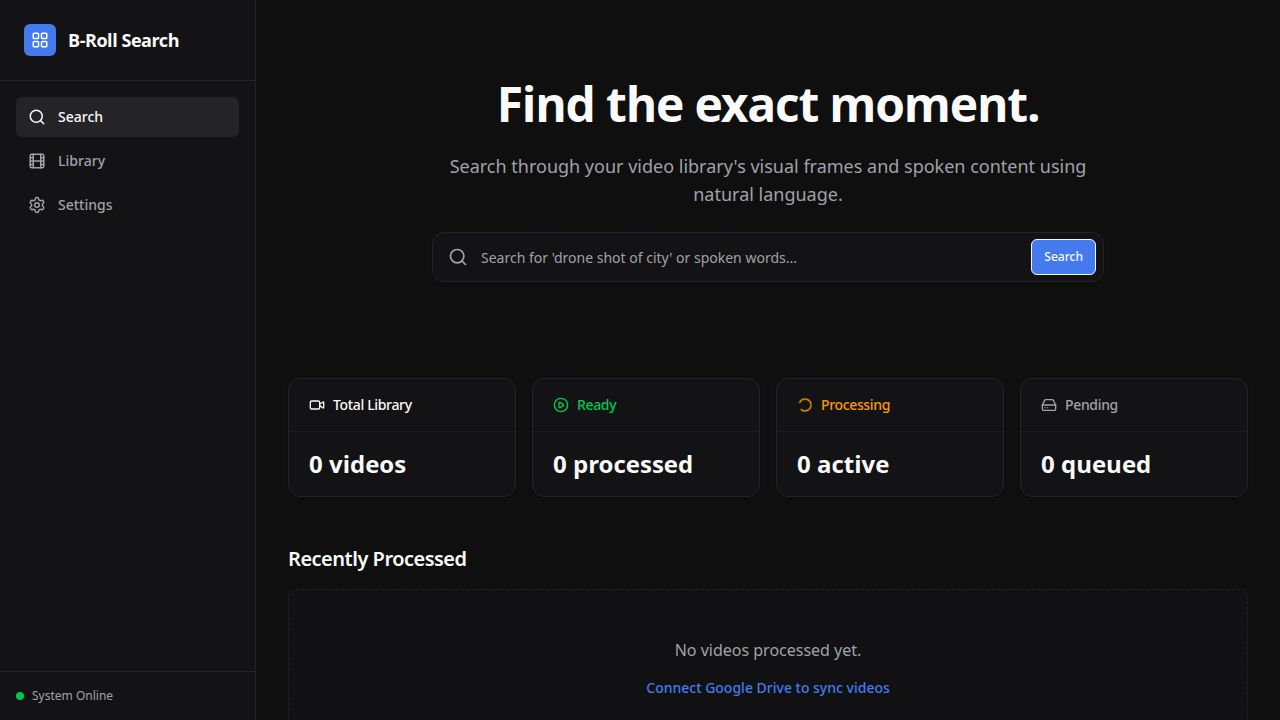
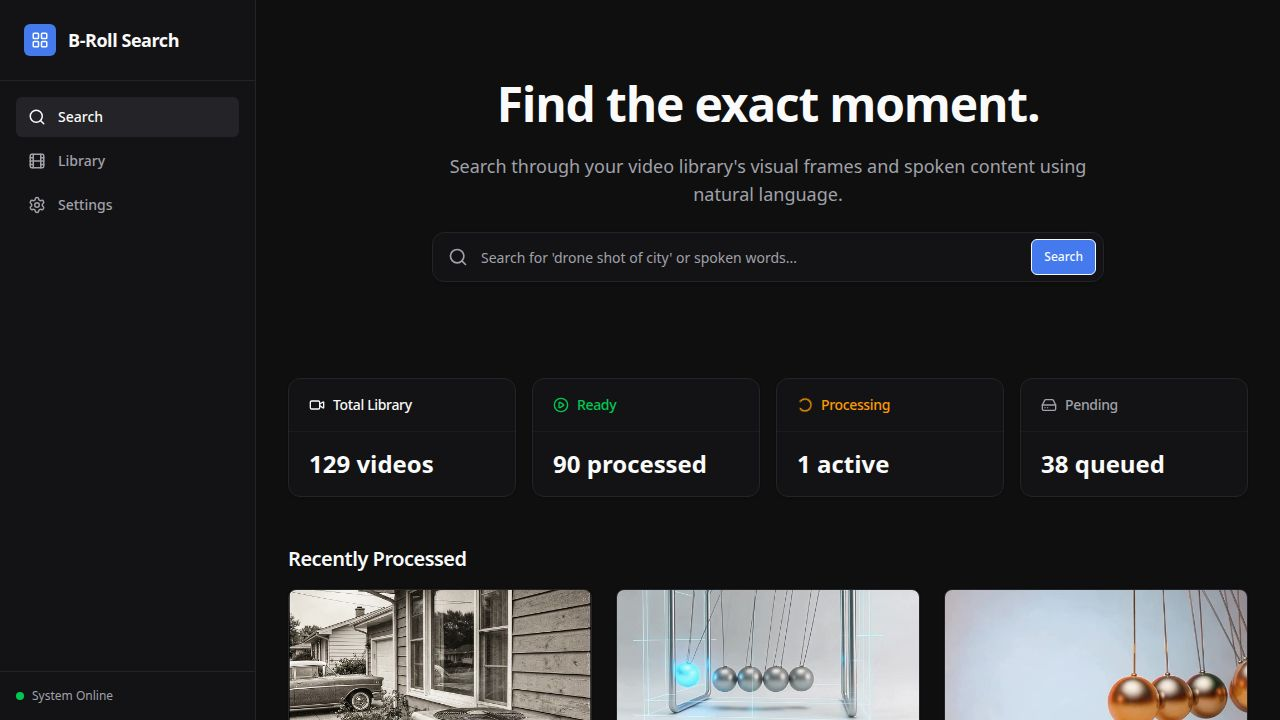
Task #6: Add real-time processing status updates via smart polling
Previously, video statuses (pending/processing/completed) only updated when
the user manually triggered an action or refreshed the page. Videos processing
in the background were invisible until a page reload.

Changes:
- Library page (library.tsx): Added refetchInterval to useGetProcessingStatus
  (3s polling) and useListVideos (5s polling) that activates only when there
  are pending or processing videos, and stops when all are idle.
- Home page (home.tsx): Same smart polling pattern for the processing status
  cards and the recently-completed videos list.

Implementation details:
- Processing status uses a functional refetchInterval that checks query data
  to determine if polling should continue (pending > 0 || processing > 0).
- Video list polling is derived from the status data via hasActiveProcessing.
- Query keys are explicitly set using generated helper functions to satisfy
  TypeScript requirements.
- No new dependencies or API changes required.

Note: Pre-existing TypeScript error in settings.tsx (getDriveFolderMetadata
import) is unrelated to this change.

diff --git a/artifacts/broll-search/src/pages/home.tsx b/artifacts/broll-search/src/pages/home.tsx
@@ -1,7 +1,7 @@
 import { useState } from "react";
 import { useLocation } from "wouter";
 import { Search, PlayCircle, HardDrive, Loader2, Video } from "lucide-react";
-import { useGetProcessingStatus, useListVideos } from "@workspace/api-client-react";
+import { useGetProcessingStatus, useListVideos, getGetProcessingStatusQueryKey, getListVideosQueryKey } from "@workspace/api-client-react";
 import { Input } from "@/components/ui/input";
 import { Button } from "@/components/ui/button";
 import { Card, CardContent, CardHeader, CardTitle } from "@/components/ui/card";
@@ -11,8 +11,25 @@ export default function Home() {
   const [, setLocation] = useLocation();
   const [searchQuery, setSearchQuery] = useState("");
 
-  const { data: status } = useGetProcessingStatus();
-  const { data: videos, isLoading } = useListVideos({ status: "completed" });
+  const { data: status } = useGetProcessingStatus({
+    query: {
+      queryKey: getGetProcessingStatusQueryKey(),
+      refetchInterval: (query) => {
+        const d = query.state.data;
+        if (d && ((d.pending ?? 0) > 0 || (d.processing ?? 0) > 0)) return 3000;
+        return false;
+      },
+    },
+  });
+
+  const hasActiveProcessing = (status?.pending ?? 0) > 0 || (status?.processing ?? 0) > 0;
+
+  const { data: videos, isLoading } = useListVideos({ status: "completed" }, {
+    query: {
+      queryKey: getListVideosQueryKey({ status: "completed" }),
+      refetchInterval: hasActiveProcessing ? 5000 : false,
+    },
+  });
 
   const handleSearch = (e: React.FormEvent<HTMLFormElement>) => {
     e.preventDefault();

diff --git a/artifacts/broll-search/src/pages/library.tsx b/artifacts/broll-search/src/pages/library.tsx
@@ -15,8 +15,25 @@ export default function Library() {
   const { toast } = useToast();
   const queryClient = useQueryClient();
   
-  const { data: videos, isLoading } = useListVideos();
-  const { data: status } = useGetProcessingStatus();
+  const { data: status } = useGetProcessingStatus({
+    query: {
+      queryKey: getGetProcessingStatusQueryKey(),
+      refetchInterval: (query) => {
+        const d = query.state.data;
+        if (d && ((d.pending ?? 0) > 0 || (d.processing ?? 0) > 0)) return 3000;
+        return false;
+      },
+    },
+  });
+
+  const hasActiveProcessing = (status?.pending ?? 0) > 0 || (status?.processing ?? 0) > 0;
+
+  const { data: videos, isLoading } = useListVideos(undefined, {
+    query: {
+      queryKey: getListVideosQueryKey(),
+      refetchInterval: hasActiveProcessing ? 5000 : false,
+    },
+  });
   
   const processMutation = useProcessVideo({
     mutation: {